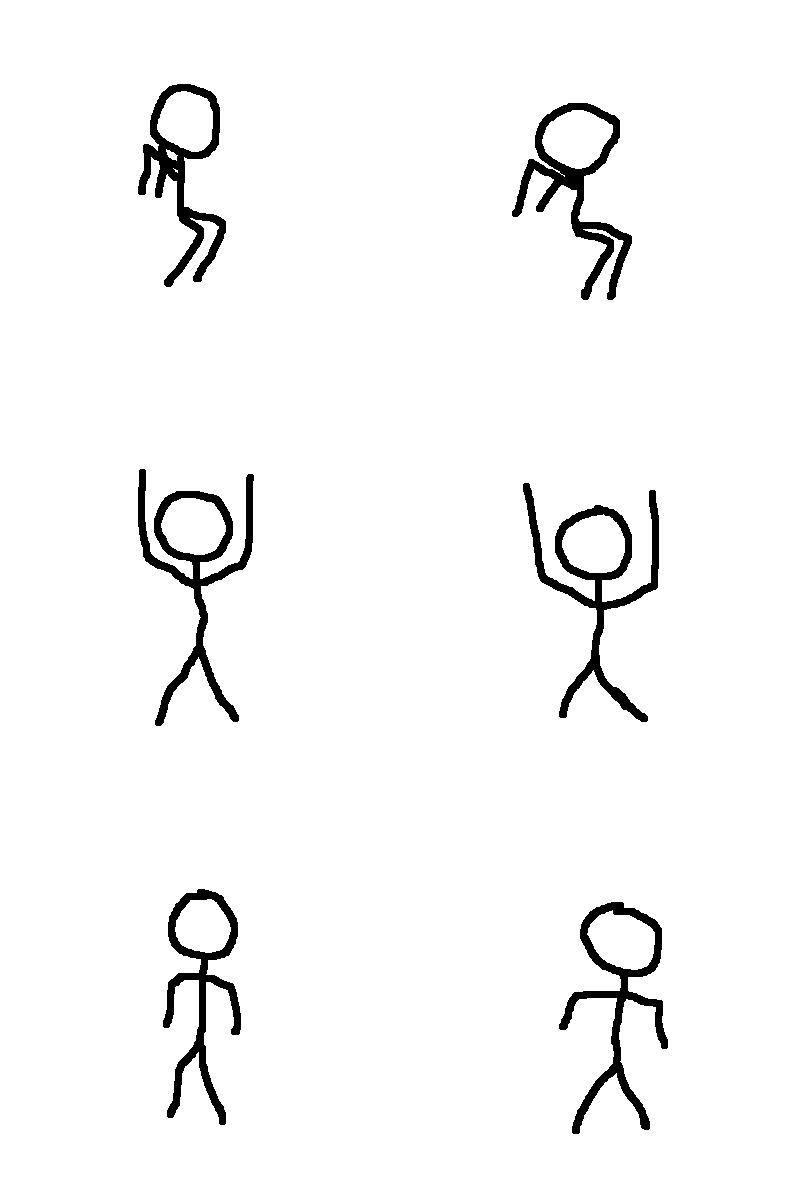
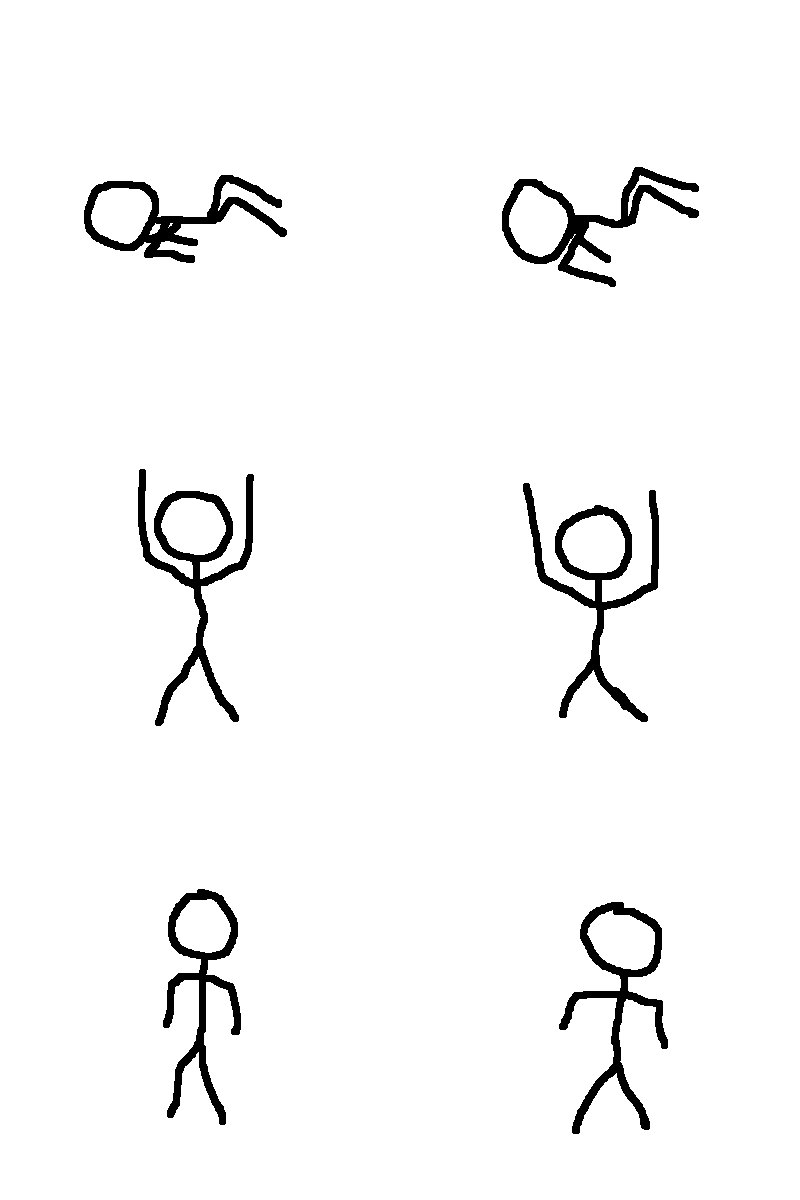
handle rotation

Changed region(s): [[0.625, 0.0617, 0.875, 0.2467], [0.0938, 0.0617, 0.3438, 0.2467], [0.3438, 0.185, 0.375, 0.2158]]

diff --git a/core/src/com/testroom/systems/PlayerSystem.java b/core/src/com/testroom/systems/PlayerSystem.java
@@ -2,10 +2,11 @@ package com.testroom.systems;
 
 import com.badlogic.ashley.core.Entity;
 import com.badlogic.ashley.core.EntitySystem;
+import com.badlogic.gdx.math.MathUtils;
 import com.badlogic.gdx.math.Vector2;
 import com.badlogic.gdx.physics.box2d.Body;
-import com.badlogic.gdx.physics.box2d.joints.DistanceJoint;
-import com.badlogic.gdx.physics.box2d.joints.DistanceJointDef;
+import com.badlogic.gdx.physics.box2d.joints.WeldJoint;
+import com.badlogic.gdx.physics.box2d.joints.WeldJointDef;
 import com.testroom.character.PhysicsCharacter;
 import com.testroom.components.MovementComponent;
 import com.testroom.components.PlayerComponent;
@@ -19,7 +20,7 @@ public class PlayerSystem extends EntitySystem{
 	private Entity player;
 	private Body body;
 	
-	private DistanceJoint joint = null;
+	private WeldJoint joint = null;
 	private Body grabbed = null;
 	private Vector2 grabbedPos = null;
 	
@@ -33,7 +34,10 @@ public class PlayerSystem extends EntitySystem{
 				PhysicsObjectType.PLAYER);
 		this.body = PhysicsManager.getInstance().createDynamicCircle(
 				tComp.pos.cpy(), PlayerComponent.WIDTH/2, s);
+		
+		mComp.velocity.scl(body.getMass());
 		body.setLinearVelocity(mComp.velocity);
+		body.setAngularDamping(0);
 	}
 
 	public void jump(float axis1, float axis2) {
@@ -42,10 +46,14 @@ public class PlayerSystem extends EntitySystem{
 		if(sComp.get() == PlayerComponent.STATE_GRAB) {
 			PhysicsManager.getInstance().destroyJoint(joint);
 			joint = null;
-			
+						
 			mComp.velocity.set(axis2 * PlayerComponent.MOVE_VELOCITY,
 					   -axis1 * PlayerComponent.MOVE_VELOCITY);
 			mComp.velocity.scl(body.getMass());
+			
+			body.setAngularVelocity(0);
+			float angle = MathUtils.atan2(mComp.velocity.y, mComp.velocity.x) - MathUtils.atan2(1, 0);
+			body.setTransform(body.getWorldCenter(), angle);
 			this.body.applyForceToCenter(mComp.velocity.cpy(), true);
 		}
 		
@@ -75,9 +83,16 @@ public class PlayerSystem extends EntitySystem{
 		
 		StateComponent sComp = player.getComponent(StateComponent.class);
 		if(sComp.get() == PlayerComponent.STATE_GRAB && joint == null) {
-			DistanceJointDef jointDef = new DistanceJointDef();
-			jointDef.initialize(this.body, grabbed, this.body.getWorldCenter().cpy(), this.grabbedPos);
-			joint = (DistanceJoint) PhysicsManager.getInstance().createJoint(jointDef);
+			body.setAngularVelocity(0);
+			float angle = MathUtils.atan2(body.getWorldCenter().y - grabbedPos.y,
+										  body.getWorldCenter().x - grabbedPos.x) -
+										  MathUtils.atan2(1, 0);
+			body.setTransform(body.getWorldCenter(), angle);
+
+			WeldJointDef jointDef = new WeldJointDef();
+			jointDef.initialize(this.body, grabbed,this.grabbedPos);
+			joint = (WeldJoint) PhysicsManager.getInstance().createJoint(jointDef);
+			
 		}
 		
 		TransformComponent tComp = player.getComponent(TransformComponent.class);
